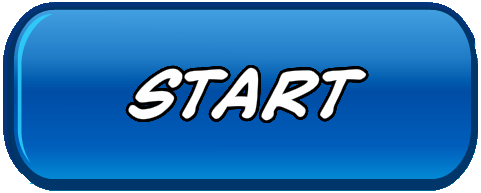
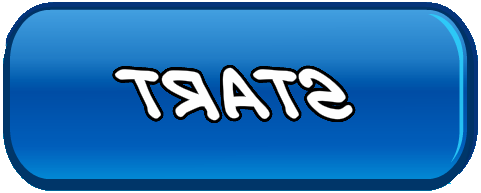
wind slash + button part 1

Changed region(s): [[0.2183, 0.342, 0.7796, 0.6528], [0.0, 0.0311, 0.1247, 0.9948], [0.9044, 0.0311, 0.9979, 0.9948]]

diff --git a/LyonPlexLib/SampleProject/Src/Player.cpp b/LyonPlexLib/SampleProject/Src/Player.cpp
@@ -269,25 +269,26 @@ void Player::Init(GameObject gameObject, GameManager* gameManager, Scene* scene,
 	m_playerHeart3.GetComponent<TransformComponent>()->AddRotation(0, 0, 180);
 
 
-	EventBus::instance().subscribe<CollisionEvent>(
-		[&](CollisionEvent::Payload const& p) {
-			Entity playerE = p.a, otherE = p.b;
-			// permute pour que playerE soit vraiment le joueur
-			if (otherE.id == m_playerGameObject.GetEntity().id) {
-				playerE = p.b; otherE = p.a;
-			}
-			// si aucun des deux nest le joueur, on sort
-			if (playerE.id != m_playerGameObject.GetEntity().id) return;
+	EventBus::instance().subscribe<CollisionEvent>([&](CollisionEvent::Payload const& p) 
+	{
+		Entity playerE = p.a, otherE = p.b;
+		// permute pour que playerE soit vraiment le joueur
+		if (otherE.id == m_playerGameObject.GetEntity().id) 
+		{
+			playerE = p.b; otherE = p.a;
+		}
+		// si aucun des deux nest le joueur, on sort
+		if (playerE.id != m_playerGameObject.GetEntity().id) return;
 			
-			auto tag = mp_scene->GetGameObjectByID(p.b).GetTag();
-			GameObject& otherGO = mp_scene->GetGameObjectByID(otherE);
+		auto tag = mp_scene->GetGameObjectByID(p.b).GetTag();
+		GameObject& otherGO = mp_scene->GetGameObjectByID(otherE);
 
 		switch (tag)
 		{
 		case TAG_Floor:
+			break;
 		case TAG_Environment:
-		{
-		}
+			break;
 		case TAG_Projectile: 
 		{
 			if (m_hp > 0)
@@ -304,13 +305,10 @@ void Player::Init(GameObject gameObject, GameManager* gameManager, Scene* scene,
 
 		}
 		default:
-		{
 			break;
 		}
-		}
 
-			//m_objectsCollidingWithPlayer.push_back(otherE);
-			m_hasCollided = true;
+		m_hasCollided = true;
 		});
 
 	OutputDebugStringA("\nINIT PLAYER REUSSI !\n");
@@ -743,7 +741,7 @@ void Player::CreateProjectile(XMFLOAT3 posStart, XMFLOAT3 posTarget, float lifeT
 	XMFLOAT3 start = { playerPos.x, playerPos.y + chestHeight, playerPos.z };
 
 	// avance le start d'une distance devant le joueur selon la direction de la caméra
-	const float muzzleOffset = 0.6f; // augmente si le projectile spawn dans le joueur
+	const float muzzleOffset = 0.8f; // augmente si le projectile spawn dans le joueur
 	start.x += camFwd.x * muzzleOffset;
 	start.y += camFwd.y * muzzleOffset;
 	start.z += camFwd.z * muzzleOffset;
@@ -764,13 +762,8 @@ void Player::CreateProjectile(XMFLOAT3 posStart, XMFLOAT3 posTarget, float lifeT
 		OutputDebugStringA(buf);
 	}
 
-	// crée le projectile (tu utilises déjà cette signature)
-	mp_scene->CreateGameObject<Projectile>(mp_scene, start, target);
-
-	// --- Optionnel debugging : si invisible, override temporairement le mesh/texture ---
-	// si ton CreateGameObject renvoie une référence/pointer, tu peux faire :
-	// auto* p = mp_scene->CreateGameObject<Projectile>(mp_scene, start, target);
-	// if (p) { p->SetMesh(MESHES::LOCAL_SPHERE); p->SetTexture(TEXTURES::LASER); p->SetOwnerEntity(m_playerGameObject.GetEntity()); }
+	// cree le projectile (tu utilises déjà cette signature)
+	mp_scene->CreateGameObject<Projectile>(mp_scene, start, target, ProjectileType::AirSlash);
 }
 
 void Player::HpUpdate()

diff --git a/LyonPlexLib/SampleProject/Src/MainMenuScene.cpp b/LyonPlexLib/SampleProject/Src/MainMenuScene.cpp
@@ -9,34 +9,30 @@ void MainMenuScene::Start()
 	GetGameObjectByName("camera2").SetPosition({ 0, 0, 0.5f });
 
 	// Buttons
-	CreateGameObject("btnStart", TYPE_2D, true);
-	GetGameObjectByName("btnStart").SetTexture(TEXTURES::start);
-	GetGameObjectByName("btnStart").SetPosition({ 400, 500, 0 });
-	GetGameObjectByName("btnStart").SetScale({ 400, 100, 0 });
-	
-	//GetGameObjectByName("btnStart").GetComponent<TransformComponent>()->AddRotation(0, 0, 180);
-
-	//m_buttonStart.Init(GetGameObjectByName("btnStart"), mp_sceneManager->GetWindow());
+	mp_buttonStart = &CreateGameObject<Button>(this, mp_sceneManager->GetWindow());
+	//GetGameObjectByName("btnStart").SetTexture(TEXTURES::start);
+	//GetGameObjectByName("btnStart").SetPosition({ 400, 500, 0 });
+	//GetGameObjectByName("btnStart").SetScale({ 400, 100, 0 });
 }
 
 void MainMenuScene::Update(float deltatime)
 {
-	if (InputManager::GetKeyIsReleased('A'))
-	{
-		ChangeScene("SampleScene2");
-		return; // ! ne pas oublier
-	}
-	if (m_buttonStart.GetMouseOnBtn()) 
-	{
-		//OutputDebugStringA("\nDont touche me !\n");
-		GetGameObjectByName("btnStart").SetScale({ 450, 150, 0 });
-	}
-	if (!m_buttonStart.GetMouseOnBtn())
+	//if (InputManager::GetKeyIsReleased('A'))
+	//{
+	//	ChangeScene("SampleScene2");
+	//	return; // ! ne pas oublier
+	//}
+	if (mp_buttonStart->GetMouseOnBtn())
 	{
 		//OutputDebugStringA("\nDont touche me !\n");
-		GetGameObjectByName("btnStart").SetScale({ 400, 100, 0 });
+		mp_buttonStart->SetScale({ 450, 150, 0 });
 	}
-	if (m_buttonStart.GetBtnIsClicked())
+	if (!mp_buttonStart->GetMouseOnBtn())
+	{
+		//OutputDebugStringA("\nDont touche me !\n");
+		mp_buttonStart->SetScale({ 400, 100, 0 });
+	}
+	if (mp_buttonStart->GetBtnIsClicked())
 	{
 		OutputDebugStringA("\nHO YOU DARE CLICK ME !?\n");
 		ChangeScene("GameScene");

diff --git a/LyonPlexLib/SampleProject/Src/Enemy.cpp b/LyonPlexLib/SampleProject/Src/Enemy.cpp
@@ -61,7 +61,7 @@ void Enemy::TakeDamage()
 
 void Enemy::CreateProjectile(XMFLOAT3 posStart, XMFLOAT3 posTarget, float lifeTime)
 {
-	auto& newProjectile = mp_scene->CreateGameObject<Projectile>(mp_scene, GetPosition(), m_playerGm.GetPosition());
+	auto& newProjectile = mp_scene->CreateGameObject<Projectile>(mp_scene, GetPosition(), m_playerGm.GetPosition(), ProjectileType::Laser);
 }
 
 void Enemy::OnUdpdate(float deltatime)
@@ -72,6 +72,49 @@ void Enemy::OnUdpdate(float deltatime)
 	m_distanceBetweenEnnemyPlayer.x = m_playerGm.GetPosition().x - GetPosition().x;
 	m_distanceBetweenEnnemyPlayer.y = m_playerGm.GetPosition().y - GetPosition().y;
 	m_distanceBetweenEnnemyPlayer.z = m_playerGm.GetPosition().z - GetPosition().z;
+
+	CollisionManager();
+}
+
+void Enemy::CollisionManager()
+{
+	EventBus::instance().subscribe<CollisionEvent>([&](CollisionEvent::Payload const& p)
+		{
+			Entity enemyE = p.a, otherE = p.b;
+			// permute pour que playerE soit vraiment le joueur
+			if (otherE.id == GetEntity().id)
+			{
+				enemyE = p.b; otherE = p.a;
+			}
+			// si aucun des deux nest le joueur, on sort
+			if (enemyE.id != GetEntity().id) return;
+
+			auto tag = mp_scene->GetGameObjectByID(p.b).GetTag();
+			GameObject& otherGO = mp_scene->GetGameObjectByID(otherE);
+
+			switch (tag)
+			{
+			case TAG_Floor:
+				break;
+			case TAG_Environment:
+				break;
+			case TAG_ProjectilePlayer:
+			{
+				OutputDebugStringA("\n OUCH ! \n");
+				if (m_life > 0)
+				{
+					mp_scene->DestroyGameObject(otherGO);
+					TakeDamage();
+				}
+				else
+				{
+					OutputDebugStringA("\n Ennemy is already dead ! \n");
+				}
+			}
+			default:
+				break;
+			}
+		});
 }
 
 void Enemy::SetStateMachine()

diff --git a/LyonPlexLib/LyonPlexLib/Src/Button.cpp b/LyonPlexLib/LyonPlexLib/Src/Button.cpp
@@ -1,17 +1,35 @@
 #include "pch.h"
 #include "Button.h"
 
-void Button::Initialize(/*GameObject gmButton,*/ HWND windowHandle, const std::string& name, ECSManager* ecsManager, Scene* scene, DimensionalType type, bool useMesh)
+Button::Button(Scene* scene, HWND windowHandle)
 {
-	//m_gameObjectBtn = gmButton;
+    mp_scene = scene;
     m_windowHandle = windowHandle;
-    Init(name, ecsManager, scene, type, useMesh);
+
+    Init("btStart", mp_scene->GetEcsManager(), mp_scene, TYPE_2D, true);
+    //InitGameObj(mp_scene->GetEcsManager(), mp_scene);
+
+    SetMesh(MESHES::LOCAL_SQUARE);
+    SetTexture(TEXTURES::start);
+
+    RECT renderZone;
+    GetClientRect(mp_scene->GetSceneManager()->GetGameManager()->GetRenderingManager().GetGraphicsDevice()->GetWindow(), &renderZone);
+    UINT renderWidth = renderZone.right - renderZone.left;
+    UINT renderHeight = renderZone.bottom - renderZone.top;
+
+    SetPosition({ (float)renderWidth * 0.5f, (float)renderHeight * 0.5f, 0.0f });
+    SetScale({ (float)renderWidth * 0.4f, (float)renderHeight * 0.15f, 0.0f });
+    GetComponent<TransformComponent>()->AddRotation(0, 0, 180);
+
+    //SetPosition({ 0, 0, 0 });
+    //SetScale({ 50, 50, 0 });
 }
 
-//void Button::Release()
-//{
-//    m_gameObjectBtn = nullptr;
-//}
+void Button::Initialize(HWND windowHandle, const std::string& name, ECSManager* ecsManager, Scene* scene, DimensionalType type, bool useMesh)
+{
+    //m_windowHandle = windowHandle;
+    //Init(name, ecsManager, scene, type, useMesh);
+}
 
 bool Button::GetMouseOnBtn()
 {

diff --git a/LyonPlexLib/LyonPlexLib/Src/Projectile.cpp b/LyonPlexLib/LyonPlexLib/Src/Projectile.cpp
@@ -18,11 +18,12 @@ void Projectile::InitProjectile( XMFLOAT3 posStart, XMFLOAT3 posTarget)
 	//std::string projName = "newProjectile" + std::to_string(mp_scene->GetSceneGameObjects().size());
 
 	AddComponent<Tag_Projectile>(new Tag_Projectile());
-	SetTag(Tag::TAG_Projectile);
 	SetPosition(posStart);
 	SetScale({ 0.2,0.2,0.8 });
 	auto projScale = GetScale();
 	AddComponent<CollisionComponent>(new CollisionComponent(CollisionComponent::MakeOBB({ projScale.x / 2, projScale.y / 2, projScale.z / 2 })));
+	m_speed = 30;
+	m_damage = 1;
 
 	// rotation projectile
 	XMFLOAT3 dir = { posTarget.x - posStart.x, posTarget.y - posStart.y, posTarget.z - posStart.z };
@@ -43,13 +44,20 @@ void Projectile::InitProjectile( XMFLOAT3 posStart, XMFLOAT3 posTarget)
 	switch (m_projectileType)
 	{
 	case Laser:
-		//LookAt(posTarget);
+		SetTag(Tag::TAG_Projectile);
+		SetTexture(TEXTURES::NOTEXTURE);
+		m_speed = 30;
+		m_damage = 1;
 		break;
 	case Rock:
-		//Laube(posStart, posTarget);
+		SetTag(Tag::TAG_Projectile);
 		break;
 	case AirSlash:
-		//LookAt(posTarget);
+		SetTag(Tag::TAG_ProjectilePlayer);
+		SetTexture(TEXTURES::WATER_NORMAL);
+		SetScale({ 0.8,0.1,0.8 });
+		m_speed = 70;
+		m_damage = 1;
 		break;
 	default:
 		break;
@@ -73,7 +81,7 @@ void Projectile::OnUdpdate(float deltatime)
 	else
 	{
 		m_lifetime -= 1 * deltatime;
-		m_projectileGameObject->MoveForward(deltatime * 30);
+		m_projectileGameObject->MoveForward(deltatime * m_speed);
 	}
 }
 

diff --git a/LyonPlexLib/SampleProject/Src/GameScene.cpp b/LyonPlexLib/SampleProject/Src/GameScene.cpp
@@ -250,6 +250,13 @@ void GameScene::Start()
 		GetGameObjectByName("Road3").SetScale({ 75, 5, 30 });
 		c = GetGameObjectByName("Road3").GetScale();
 		GetGameObjectByName("Road3").AddComponent<CollisionComponent>(new CollisionComponent(CollisionComponent::MakeOBB({ c.x / 2, c.y / 2, c.z / 2 })));
+
+		CreateGameObject("Tree", MESHES::ARBRETEST, TEXTURES::HERBE);
+		GetGameObjectByName("Tree").SetTag(TAG_Floor);
+		GetGameObjectByName("Tree").SetPosition({ 80, -2, 50 });
+		GetGameObjectByName("Tree").SetScale({ 50, 50, 50 });
+		c = GetGameObjectByName("Tree").GetScale();
+		GetGameObjectByName("Tree").AddComponent<CollisionComponent>(new CollisionComponent(CollisionComponent::MakeOBB({ c.x / 2, c.y / 2, c.z / 2 })));
 	}
 
 
@@ -2625,11 +2632,7 @@ void GameScene::Update(float deltatime)
 {
 	m_fpsCam.Update(deltatime);
 
-	//if (InputManager::GetKeyIsReleased('K'))
-	//{
-	//	PlaySoundPlex("pop");
-	//	DestroyGameObject(GetGameObjectByName("testDestory"));
-	//}
+
 	if (InputManager::GetKeyIsReleased('N'))
 	{
 		StopMusicPlex();

diff --git a/LyonPlexLib/LyonPlexLib/Include/Button.h b/LyonPlexLib/LyonPlexLib/Include/Button.h
@@ -2,7 +2,10 @@
 class Button : public GameObject
 {
 public:
-	void Initialize(/*GameObject gmButton,*/ HWND windowHandle, const std::string& name, ECSManager* ecsManager, Scene* scene, DimensionalType type, bool useMesh);
+	//Button() : mp_scene(nullptr), m_windowHandle(nullptr) {}
+	Button(Scene* scene, HWND windowHandle);
+
+	void Initialize(HWND windowHandle, const std::string& name, ECSManager* ecsManager, Scene* scene, DimensionalType type, bool useMesh);
 
 	void OnUpdate(float deltatime) {};
 
@@ -15,6 +18,7 @@ public:
 private:
 
 	//GameObject m_gameObjectBtn;
+	Scene* mp_scene;
 	HWND m_windowHandle;
 };
 

diff --git a/LyonPlexLib/SampleProject/Include/Enemy.h b/LyonPlexLib/SampleProject/Include/Enemy.h
@@ -45,6 +45,8 @@ public:
 
 	void CreateProjectile(XMFLOAT3 posStart, XMFLOAT3 posTarget, float lifeTime = 3.f);
 
+	void CollisionManager();
+
 	void SetMoveSpeed(float speedValue) { m_moveSpeed = speedValue; };
 	
 	float GetMoveSpeed() { return m_moveSpeed; };

diff --git a/LyonPlexLib/SampleProject/Src/AllScenes.cpp b/LyonPlexLib/SampleProject/Src/AllScenes.cpp
@@ -17,7 +17,7 @@ void AllScenes::Init(GameManager* gameManager)
 
     // START SCENE
     //StartScene("SampleScene2");
-    StartScene("GameScene");
+    StartScene("MainMenuScene");
 }
 
 void AllScenes::CreateAllScenes()

diff --git a/LyonPlexLib/LyonPlexLib/Include/GameObject.h b/LyonPlexLib/LyonPlexLib/Include/GameObject.h
@@ -25,6 +25,7 @@ enum Tag
 	TAG_Stick,
 	TAG_Rock,
 	TAG_Projectile,
+	TAG_ProjectilePlayer,
 
 	TagCount
 };

diff --git a/LyonPlexLib/SampleProject/Include/MainMenuScene.h b/LyonPlexLib/SampleProject/Include/MainMenuScene.h
@@ -8,7 +8,7 @@ public:
 
 private:
 
-	Button m_buttonStart;
+	Button* mp_buttonStart;
 
 };
 
